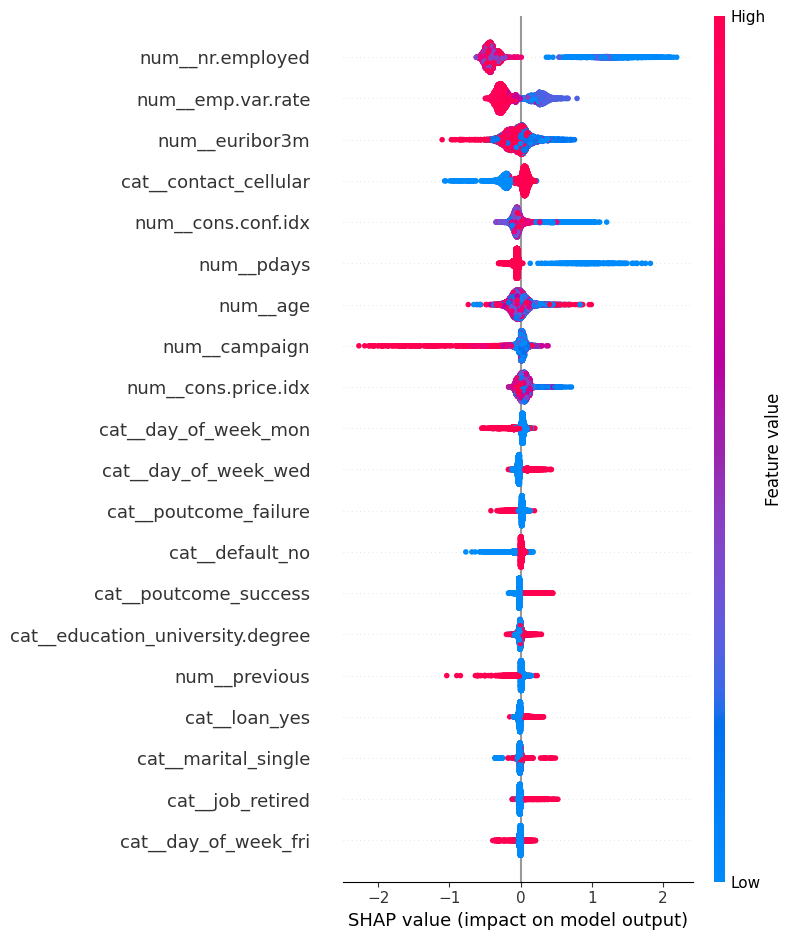
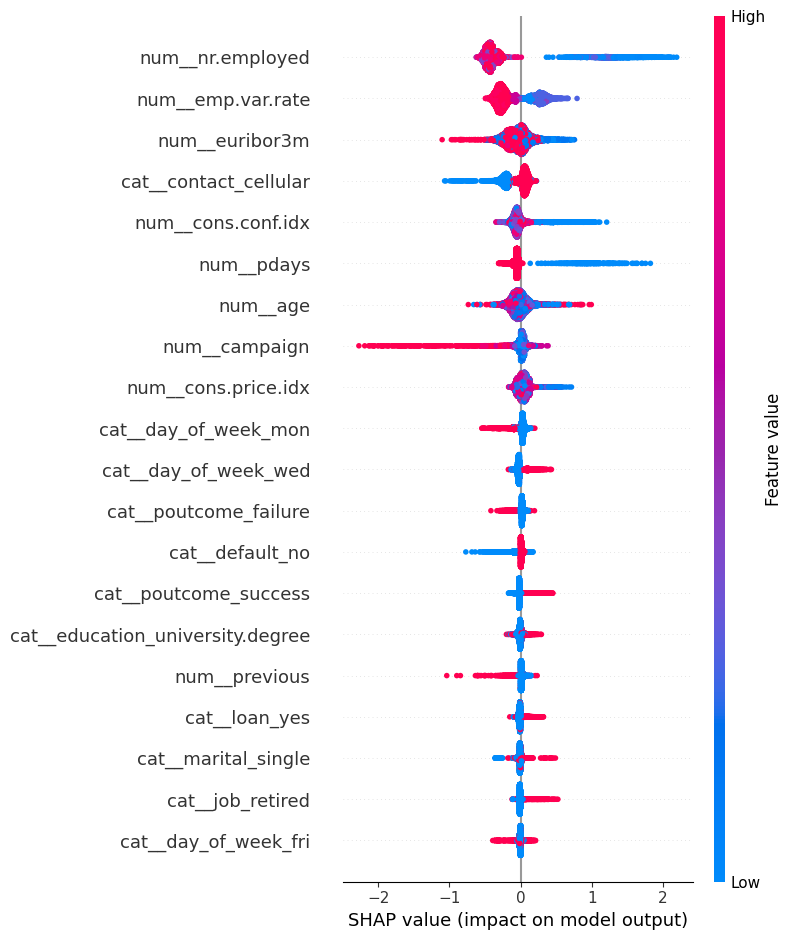
Fix profit economics, active model loading, uplift evaluation (AUUC/Qini), promotion gate in CI

diff --git a/src/evaluate_uplift.py b/src/evaluate_uplift.py
@@ -1,0 +1,95 @@
+import os, joblib, numpy as np, pandas as pd
+import matplotlib
+matplotlib.use('Agg')
+import matplotlib.pyplot as plt
+from sklearn.model_selection import train_test_split
+from src.config import BASE_DIR
+from src.data_loader import load_data
+from src.schema import RANDOM_STATE, TARGET_COLUMN, DROPPED_COLUMNS
+
+REPORTS = os.path.join(BASE_DIR, 'reports')
+
+np.random.seed(123)
+df = load_data()
+X = df.drop(columns=[TARGET_COLUMN] + DROPPED_COLUMNS, errors='ignore')
+y = df[TARGET_COLUMN].map({'yes': 1, 'no': 0}).values
+treatment = np.random.binomial(1, 0.5, len(X))
+boost = np.where((X['age'].values < 40) & (treatment == 1), 0.15, 0.0)
+y_sim = ((y + boost) > np.random.rand(len(X)) * 1.2).astype(int)
+
+X_tr, X_te, y_tr, y_te, t_tr, t_te = train_test_split(
+    X, y_sim, treatment, test_size=0.2, random_state=RANDOM_STATE, stratify=treatment)
+
+mt = joblib.load(os.path.join(BASE_DIR, 'models', 'uplift_treatment.pkl'))
+mc = joblib.load(os.path.join(BASE_DIR, 'models', 'uplift_control.pkl'))
+
+p_t = mt.predict_proba(X_te)[:, 1]
+p_c = mc.predict_proba(X_te)[:, 1]
+uplift = p_t - p_c
+
+eval_df = pd.DataFrame({'uplift': uplift, 'y': y_te, 't': t_te}).sort_values('uplift', ascending=False).reset_index(drop=True)
+
+n = len(eval_df)
+deciles = []
+for i in range(10):
+    lo, hi = i * n // 10, (i + 1) * n // 10
+    seg = eval_df.iloc[lo:hi]
+    t_rate = seg[seg['t'] == 1]['y'].mean() if (seg['t'] == 1).sum() > 0 else 0
+    c_rate = seg[seg['t'] == 0]['y'].mean() if (seg['t'] == 0).sum() > 0 else 0
+    deciles.append({'Decile': i + 1, 'N': len(seg),
+                    'Treatment_Rate': round(float(t_rate), 4),
+                    'Control_Rate': round(float(c_rate), 4),
+                    'Incremental_Uplift': round(float(t_rate - c_rate), 4)})
+decile_df = pd.DataFrame(deciles)
+decile_df.to_csv(os.path.join(REPORTS, 'uplift_deciles.csv'), index=False)
+print(decile_df.to_string(index=False))
+
+qs = np.linspace(0, 1, 100)
+n_t = (eval_df['t'] == 1).sum()
+n_c = (eval_df['t'] == 0).sum()
+cum_t = eval_df.loc[eval_df['t'] == 1, 'y'].cumsum().values
+cum_c = eval_df.loc[eval_df['t'] == 0, 'y'].cumsum().values
+qini = []
+for q in qs:
+    idx_t = int(q * n_t) - 1
+    idx_c = int(q * n_c) - 1
+    if idx_t < 0 or idx_c < 0:
+        qini.append(0.0)
+    else:
+        qini.append(float(cum_t[min(idx_t, len(cum_t)-1)] - cum_c[min(idx_c, len(cum_c)-1)] * (n_t / max(n_c, 1))))
+qini = np.array(qini)
+auuc = float(np.trapezoid(qini, qs))
+
+plt.figure(figsize=(8, 5))
+plt.plot(qs, qini, label=f'Model (AUUC={auuc:.2f})', color='#00D9B8', linewidth=2)
+plt.plot(qs, qs * qini[-1], label='Random', linestyle='--', color='gray')
+plt.xlabel('Fraction of population targeted')
+plt.ylabel('Cumulative incremental conversions')
+plt.title('Qini Curve (SYNTHETIC treatment)')
+plt.legend()
+plt.grid(alpha=0.3)
+plt.tight_layout()
+plt.savefig(os.path.join(REPORTS, 'qini_curve.png'), dpi=100)
+plt.close()
+
+def uplift_at_k(df_, k_frac):
+    k = int(len(df_) * k_frac)
+    top = df_.head(k)
+    t_rate = top[top['t'] == 1]['y'].mean() if (top['t'] == 1).sum() > 0 else 0
+    c_rate = top[top['t'] == 0]['y'].mean() if (top['t'] == 0).sum() > 0 else 0
+    return float(t_rate - c_rate)
+
+summary = {'auuc': auuc,
+           'uplift@10pct': uplift_at_k(eval_df, 0.10),
+           'uplift@20pct': uplift_at_k(eval_df, 0.20),
+           'uplift@30pct': uplift_at_k(eval_df, 0.30)}
+pd.DataFrame([summary]).to_csv(os.path.join(REPORTS, 'uplift_summary.csv'), index=False)
+
+print()
+print(f'AUUC: {auuc:.4f}')
+print(f'Uplift@10%: {summary["uplift@10pct"]:.4f}')
+print(f'Uplift@20%: {summary["uplift@20pct"]:.4f}')
+print(f'Uplift@30%: {summary["uplift@30pct"]:.4f}')
+print()
+print('Saved: reports/uplift_deciles.csv, qini_curve.png, uplift_summary.csv')
+print('CAVEAT: treatment is SYNTHETIC.')

diff --git a/src/train_models.py b/src/train_models.py
@@ -1,4 +1,4 @@
-import os, joblib, json, subprocess, numpy as np, pandas as pd
+import os, joblib, json, subprocess, numpy as np, pandas as pd
 from datetime import datetime
 import mlflow
 import mlflow.sklearn
@@ -87,12 +87,15 @@ for name, model in models.items():
         if f1 > best_f1:
             best_f1, thresh_f1 = f1, t
 
+    break_even = COST_PER_CONTACT / REVENUE_PER_SUBSCRIPTION
     profit_per_thresh = []
-    for t in np.arange(0.01, 0.99, 0.01):
+    for t in np.arange(0.005, 0.99, 0.005):
         sel = val_proba >= t
         ep = float(np.sum(val_proba[sel] * REVENUE_PER_SUBSCRIPTION - COST_PER_CONTACT)) if sel.sum() else 0
         profit_per_thresh.append((t, ep))
     thresh_profit, best_profit = max(profit_per_thresh, key=lambda x: x[1])
+    thresh_profit = max(thresh_profit, break_even)
+    best_profit = float(np.sum(val_proba[val_proba >= thresh_profit] * REVENUE_PER_SUBSCRIPTION - COST_PER_CONTACT))
 
     # --- MLflow logging per model ---
     with mlflow.start_run(run_name=name):

diff --git a/src/api.py b/src/api.py
@@ -1,4 +1,4 @@
-import os, joblib, json, logging, sys
+import os, joblib, json, logging, sys
 import pandas as pd
 from pathlib import Path
 from datetime import datetime
@@ -10,8 +10,12 @@ logging.basicConfig(level=logging.INFO)
 logger = logging.getLogger(__name__)
 
 BASE_DIR = os.path.dirname(os.path.dirname(os.path.abspath(__file__)))
-MODEL_PATH = os.path.join(BASE_DIR, 'models', 'production_model.pkl')
-METADATA_PATH = os.path.join(BASE_DIR, 'models', 'model_metadata.json')
+MODEL_PATH = os.path.join(BASE_DIR, 'models', 'production_model_active.pkl')
+if not os.path.exists(MODEL_PATH):
+    MODEL_PATH = os.path.join(BASE_DIR, 'models', 'production_model.pkl')
+METADATA_PATH = os.path.join(BASE_DIR, 'models', 'model_metadata_active.json')
+if not os.path.exists(METADATA_PATH):
+    METADATA_PATH = os.path.join(BASE_DIR, 'models', 'model_metadata.json')
 
 LOG_DIR = Path(BASE_DIR) / 'logs'
 LOG_DIR.mkdir(exist_ok=True)
